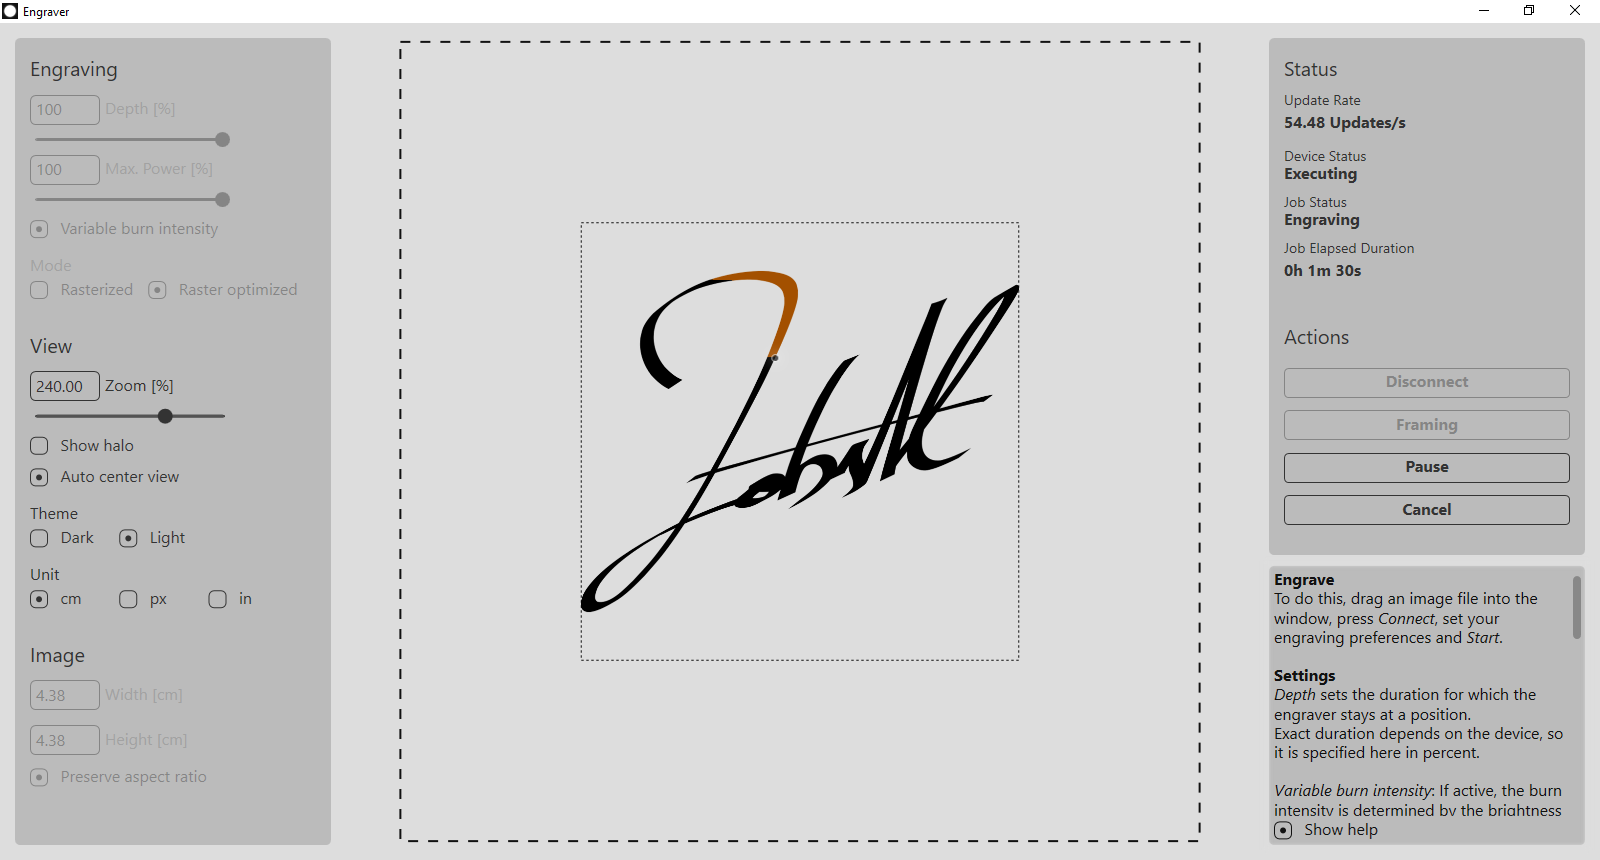
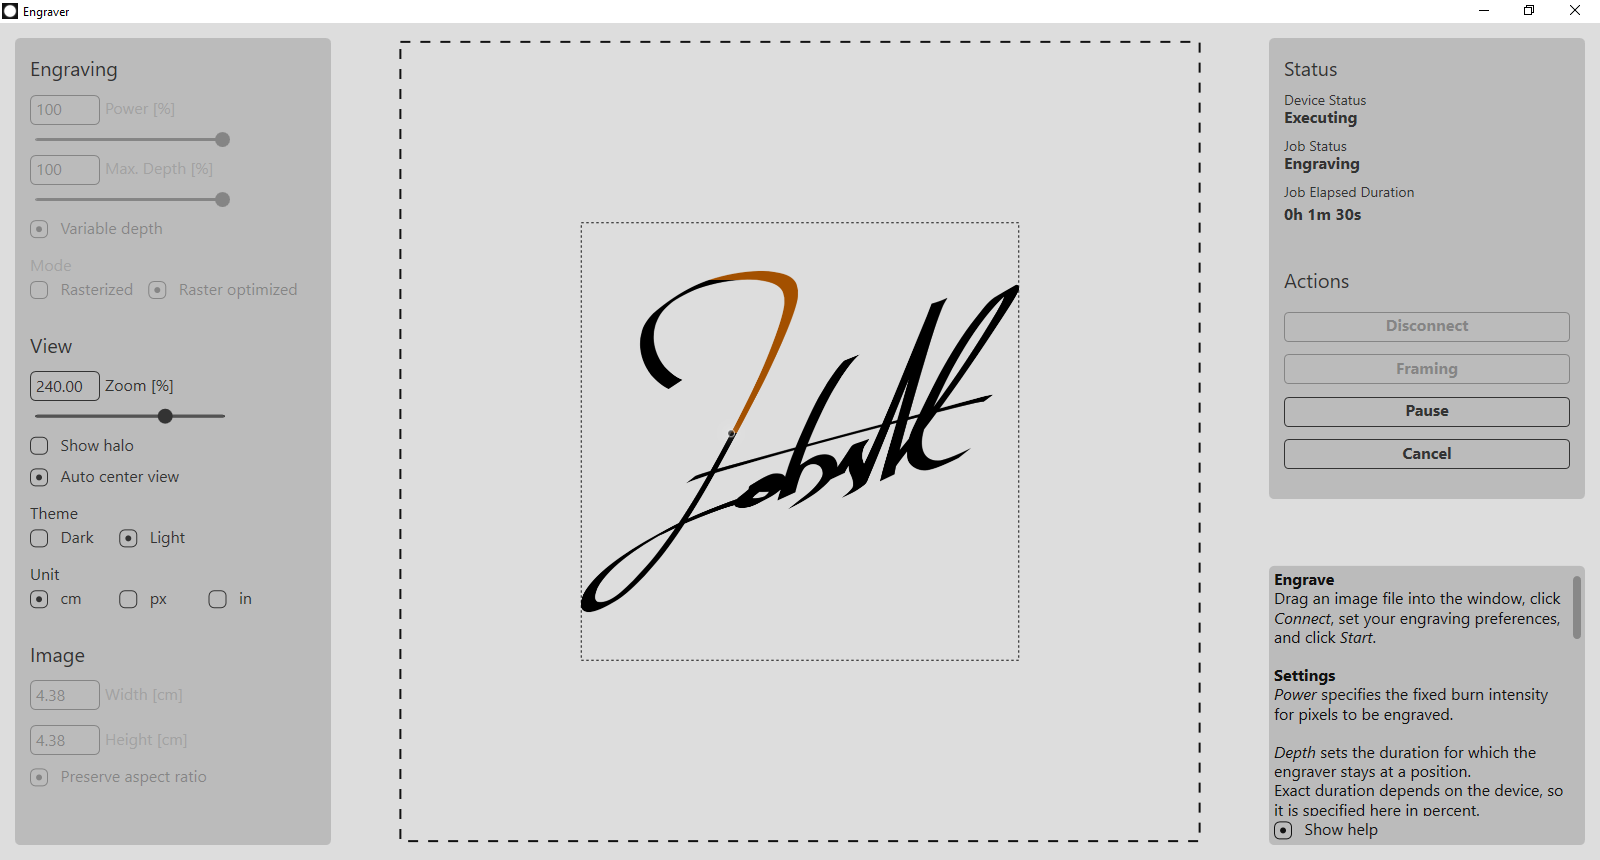
Updated documentation

diff --git a/src/UI.Win/Resources/Localization/Texts.Designer.cs b/src/UI.Win/Resources/Localization/Texts.Designer.cs
@@ -270,15 +270,15 @@ namespace LaserEngraver.UI.Win.Resources.Localization {
         /// <summary>
         ///   Looks up a localized string similar to &lt;p&gt;
         ///&lt;b&gt;Engrave&lt;/b&gt;
-        ///To do this, drag an image file into the window, press &lt;i&gt;Connect&lt;/i&gt;, set your engraving preferences and &lt;i&gt;Start&lt;/i&gt;.
+        ///Drag an image file into the window, click &lt;i&gt;Connect&lt;/i&gt;, set your engraving preferences, and click &lt;i&gt;Start&lt;/i&gt;.
         ///
         ///&lt;b&gt;Settings&lt;/b&gt;
-        ///&lt;br /&gt;&lt;i&gt;Depth&lt;/i&gt; sets the duration for which the engraver stays at a position.
+        ///&lt;br /&gt;&lt;i&gt;Power&lt;/i&gt; specifies the fixed burn intensity for pixels to be engraved.
+        ///
+        ///&lt;i&gt;Depth&lt;/i&gt; sets the duration for which the engraver stays at a position.
         ///Exact duration depends on the device, so it is specified here in percent.
         ///
-        ///&lt;i&gt;Variable burn intensity&lt;/i&gt;: If active, the burn intensity is determined by the brightness of the pixel (including alpha channel).
-        ///
-        ///&lt;i&gt;Max. Power&lt;/i&gt; limits the burn intensity to a maximum [rest of string was truncated]&quot;;.
+        ///&lt;i&gt;Variable depth&lt;/i&gt;: If enabled, the burn duration/depth per pixel is determined by the brightness of the pixel (inclu [rest of string was truncated]&quot;;.
         /// </summary>
         public static string HelpText {
             get {

diff --git a/readme.md b/readme.md
@@ -2,13 +2,20 @@
 This project serves as an alternative to the software that comes with K3/K5 laser engravers.  
 
 ## Motivation
-The original software only supports rasterized engraving, which limits its capabilities.  
-This project aims to enhance the engraving process by analyzing the input image and determining the shortest path for the laser to follow, thereby potentially speeding up the process.  
-However, due to the high latency of the engraver in acknowledging received commands and its quicker performance with single line engraving commands, this goal has not been fully realized yet.
+The original software the device comes with supports only rasterized engraving, which can unnecessarily prolong the engraving duration for simple shapes.  
+This project aims to optimize the engraving process by analyzing the input image and determining the most efficient path for the laser, potentially reducing the process time.  
+
+## Limitations
+The K3/K5 engraver is primarily designed for rasterized engraving, i.e., it only has instructions for horizontal engraving.  
+It also includes commands for specific location movement, homing, fan control, and other technical instructions.  
+Due to the high latency in acknowledging received commands, the engraver performs optimally when multiple horizontal pixels in succession are engraved with a single command.  
+Right-to-left engraving works well only when preceded by a left-to-right instruction.  
+The **Raster Optimized** mode considers these factors and seeks to find the best path that optimizes horizontal left-to-right engraving while minimizing unnecessary movements.  
 
 ## Installation
 To install, either clone the repository or download the source code and compile the application using Visual Studio.  
 Currently, only a Windows build profile is available as I don't use Linux with a GUI. Future releases will include prebuilt executables.
+
 ## How to use
 
 ### Engrave
@@ -16,16 +23,19 @@ Drag an image file into the window, click *Connect*, set your engraving preferen
 
 ![demo](./res/demo.png)
 
-The highlighted area represents what has already been engraved, while the dot indicates the current position of the laser.  
+The highlighted area represents the portion that has already been engraved, while the dot indicates the current position of the laser.  
 
 ### Settings
 - **Depth** determines how long the engraver stays at a position. The exact duration depends on the device and is specified here in percent.  
-- **Variable burn intensity**: If enabled, burn intensity is determined by pixel brightness (including alpha channel).
-- **Max. Power**: When **Variable burn intensity** is enabled, this option limits burn intensity to a maximum value.
-- **Power**: Specifies fixed burn intensity for pixels to be engraved when **Variable burn intensity** is disabled.
+- **Variable depth**: If enabled, this setting determines the burn duration/depth per pixel based on pixel brightness (including alpha channel).  
+Use this setting only when grayscale engraving is required as each pixel would likely require a separate instructions, increasing total engraving time due to high instruction acknowledgment latencies.
+- **Max. Depth**: When **Variable depth** is enabled, this option limits the burn duration/depth to a maximum value.
+- **Power**: Specifies fixed burn intensity for pixels to be engraved.
 - **Threshold**: Determines at what percent brightness a pixel is engraved when *Variable burn intensity* is disabled.
-- **Rasterized**: Engraves pixels in rows in a grid pattern.
-- **Raster optimized**: Begins engraving at any pixel and directly navigates to the next pixel to be engraved.
+- **Rasterized**: Engraves pixels in rows in a grid pattern.  
+This setting yields quickest results for images with minimal empty spaces in between.  
+- **Raster optimized**: Optimizes for better horizontal line performance by finding an efficient path.  
+Use this setting for simple shapes or images with large empty spaces.
 - **Show halo**: A visual setting that does not affect engraving.
 
 ### Keyboard Shortcuts
@@ -45,7 +55,8 @@ This section details settings that can only be set in `appsettings.json`.
     "DPI": 510.54,
     "WidthDots": 1608,
     "HeightDots": 1608,
-    "Type": 2
+    "Type": 2,
+    "PortName": "COM5"
   },
   "UserConfiguration": {
     "Culture": "en",
@@ -80,8 +91,10 @@ This section should not be modified, as it is preconfigured for K3/K5 laser engr
 Other models are not supported as of now.  
 
 - **DPI**: Dots per inch
-- **WidthDots**/**HeightDots**: Width and height of the canvas
+- **WidthDots**/**HeightDots**: Width and height of the canvas. This value should only be decreased, when the device is evidently trying to move out of bounds.  
 - **Type**: Set to 1 for demo-mode (default in debug-builds), which simulates a mockup device. Select 2 for USB devices (default in release-builds). Other devices are not supported.
+- **PortName**: Name of the serial port. Should only be modified/specified when asked by the application. Might happen, when more than one serial device is connnected.  
+- **BaudRate**: Baud rate of the connection
 
 ### UserConfiguration
 - **Culture**: The application is fully localized in both German (`de`) and English (`en`).
